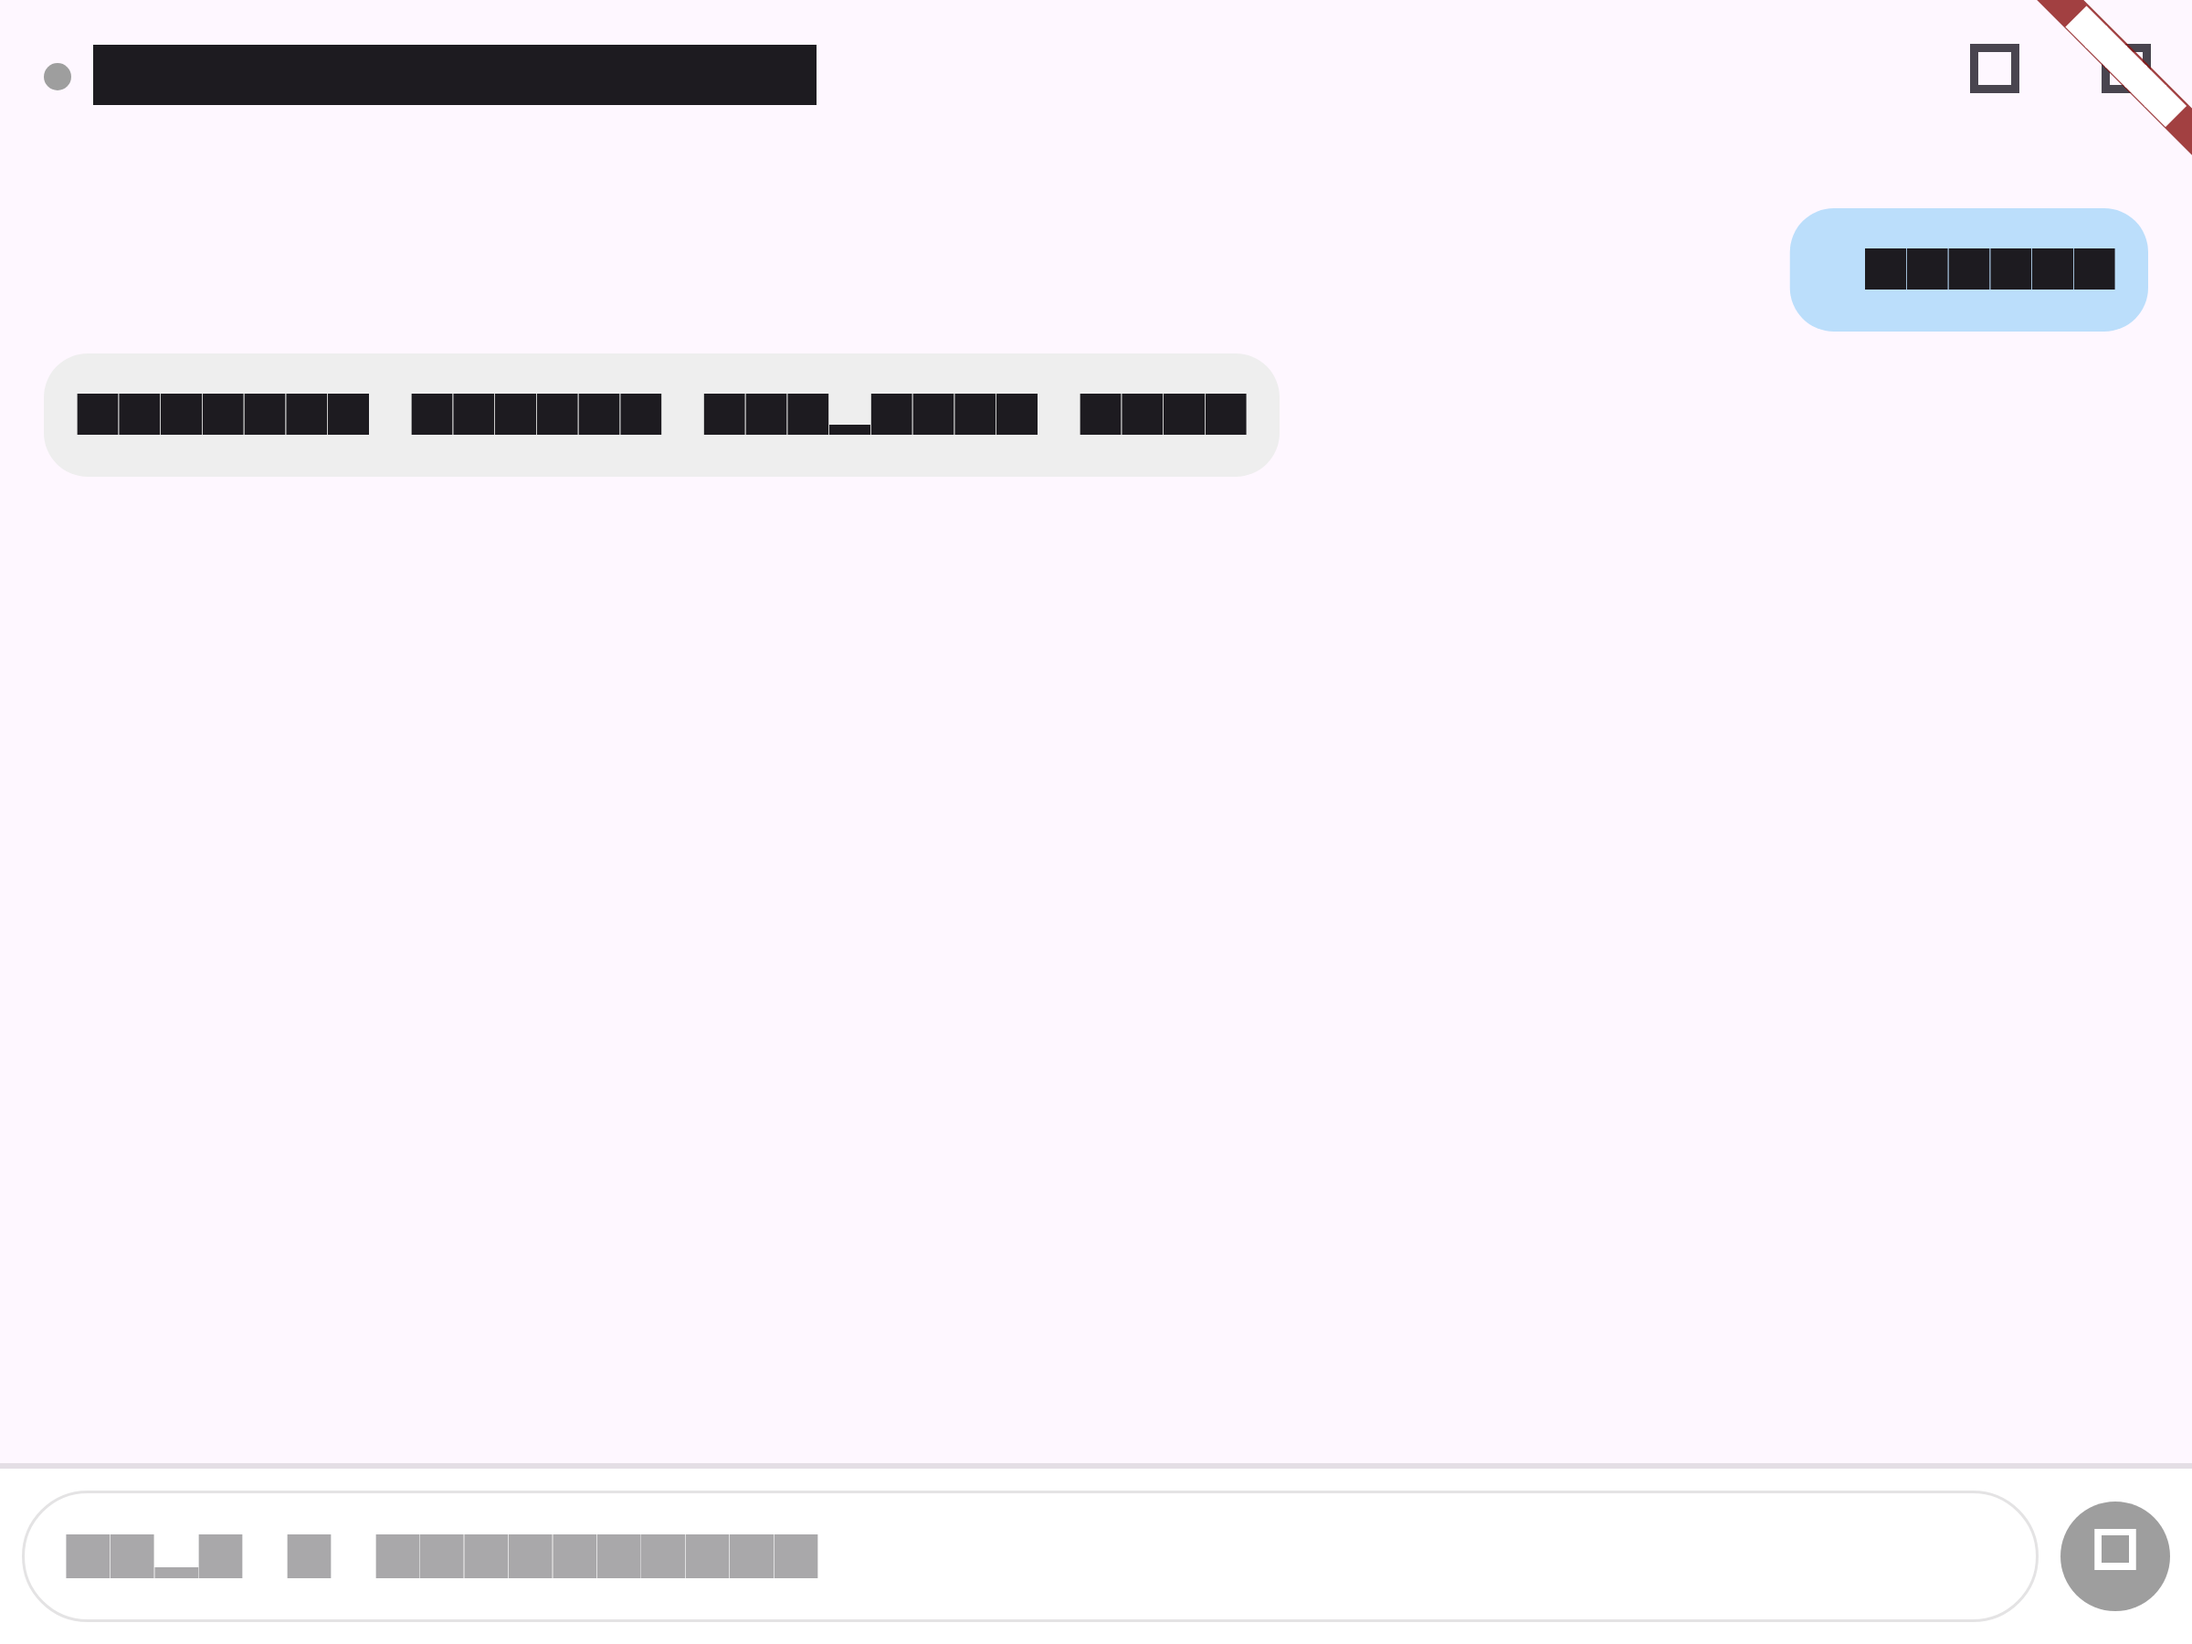
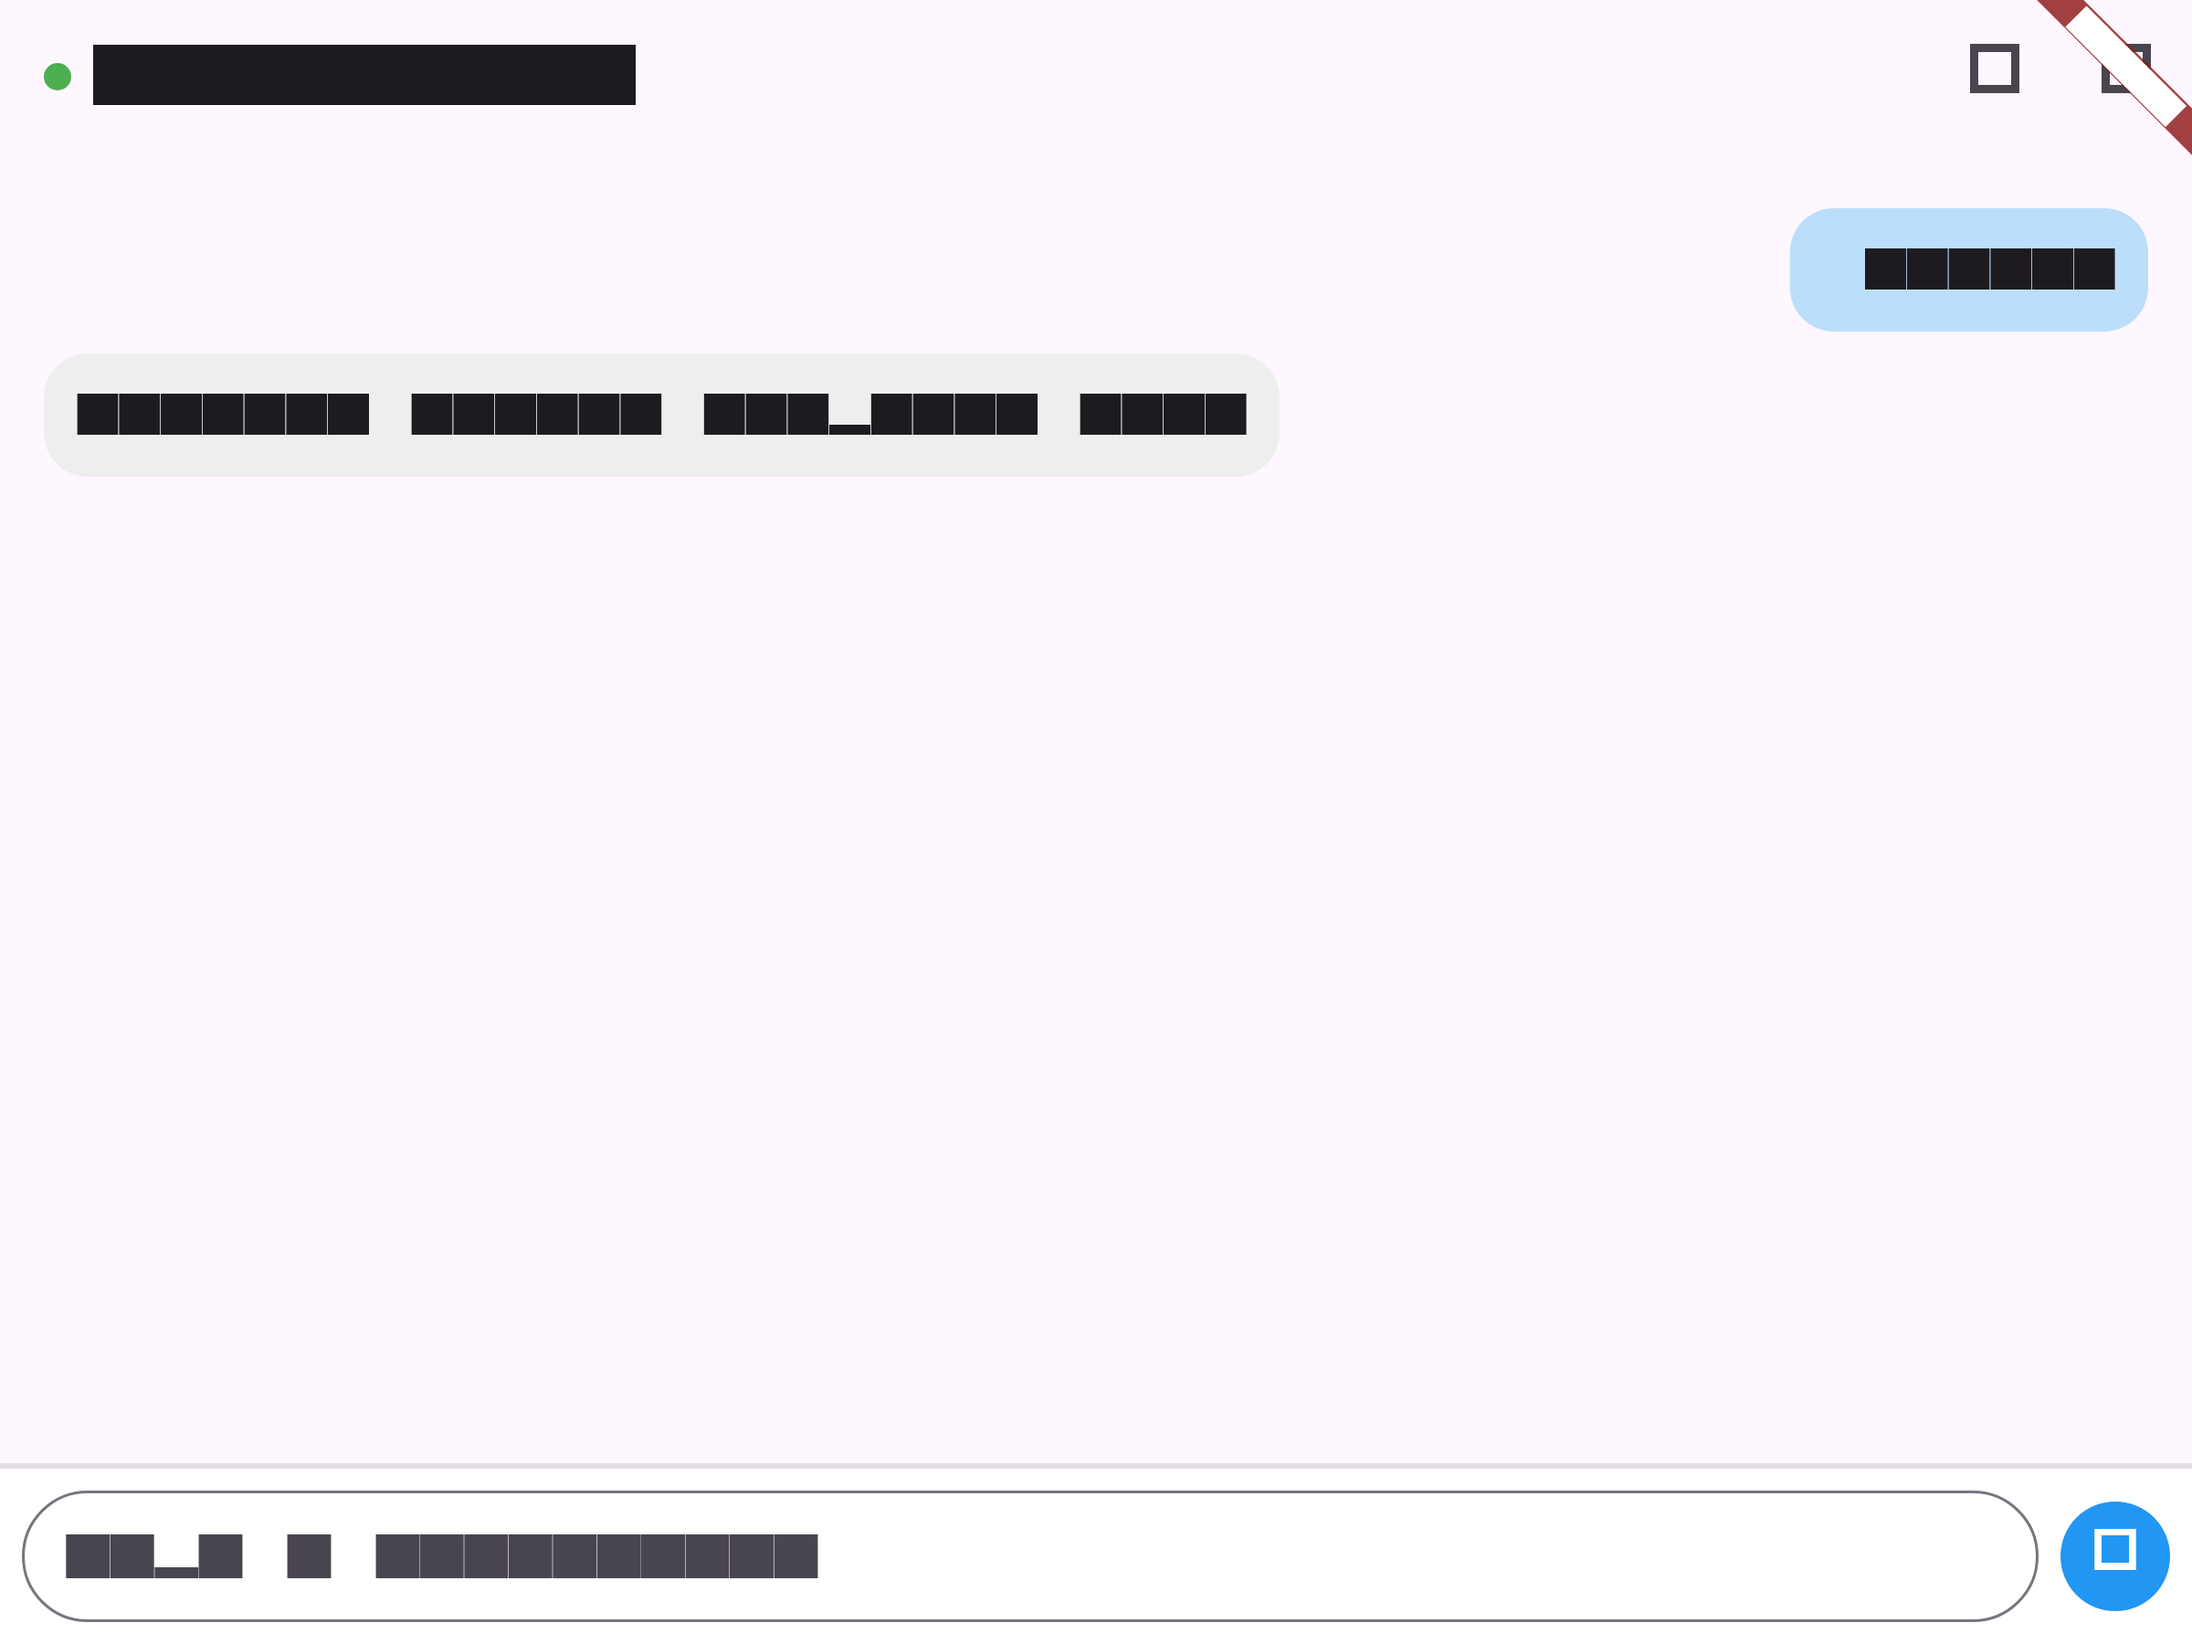
test: recapture screenshots with connected state
- Added setConnectionStateForTesting() helper to WebSocketService
- Updated golden screenshot tests to set connection state to connected
- Recaptured chat_screen.png (37KB) showing:
  - App bar with connection indicator (green dot + 'Connected' text)
  - Reconnect and Clear chat action buttons
  - Message bubbles (user right/blue, server left/grey)
  - Input field and send button
- Recaptured settings_screen.png (23KB) showing:
  - IP address field (192.168.1.100)
  - Port field (8765)
  - Save button

diff --git a/flutter-app/test/golden_screenshot_test.dart b/flutter-app/test/golden_screenshot_test.dart
@@ -10,6 +10,7 @@ import 'dart:ui' as ui;
 void main() {
   testWidgets('ChatScreen golden screenshot', (WidgetTester tester) async {
     final service = WebSocketService(serverIp: '192.168.1.100', serverPort: '8765');
+    service.setConnectionStateForTesting(WsConnectionState.connected);
     service.addMessage('user: Hello!');
     service.addMessage('server: Server response here');
     
@@ -42,6 +43,7 @@ void main() {
   
   testWidgets('SettingsScreen golden screenshot', (WidgetTester tester) async {
     final service = WebSocketService(serverIp: '192.168.1.100', serverPort: '8765');
+    service.setConnectionStateForTesting(WsConnectionState.connected);
     
     final boundaryKey = GlobalKey();
     

diff --git a/flutter-app/lib/services/websocket_service.dart b/flutter-app/lib/services/websocket_service.dart
@@ -149,6 +149,12 @@ class WebSocketService extends ChangeNotifier {
     notifyListeners();
   }
 
+  /// Test helper: set connection state directly for testing
+  void setConnectionStateForTesting(WsConnectionState state) {
+    _connectionState = state;
+    notifyListeners();
+  }
+
   @override
   void dispose() {
     _reconnectTimer?.cancel();
